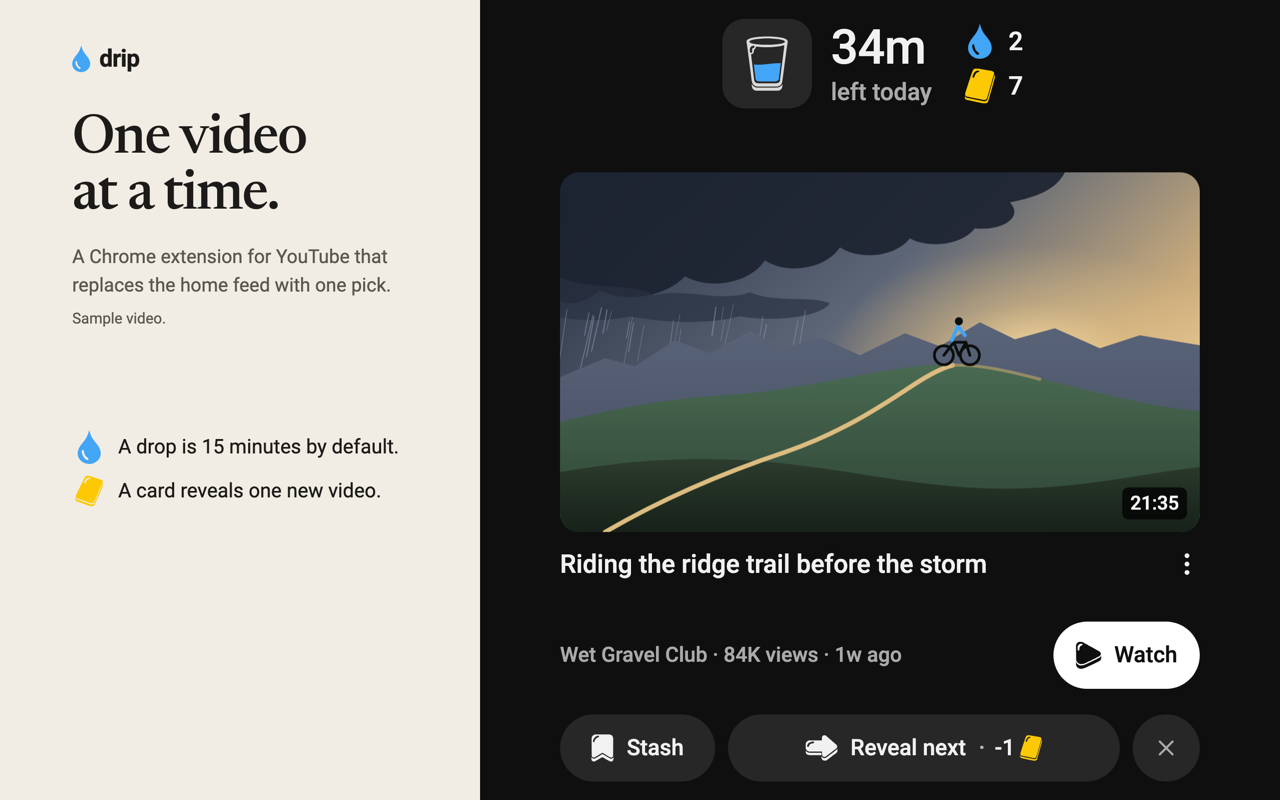
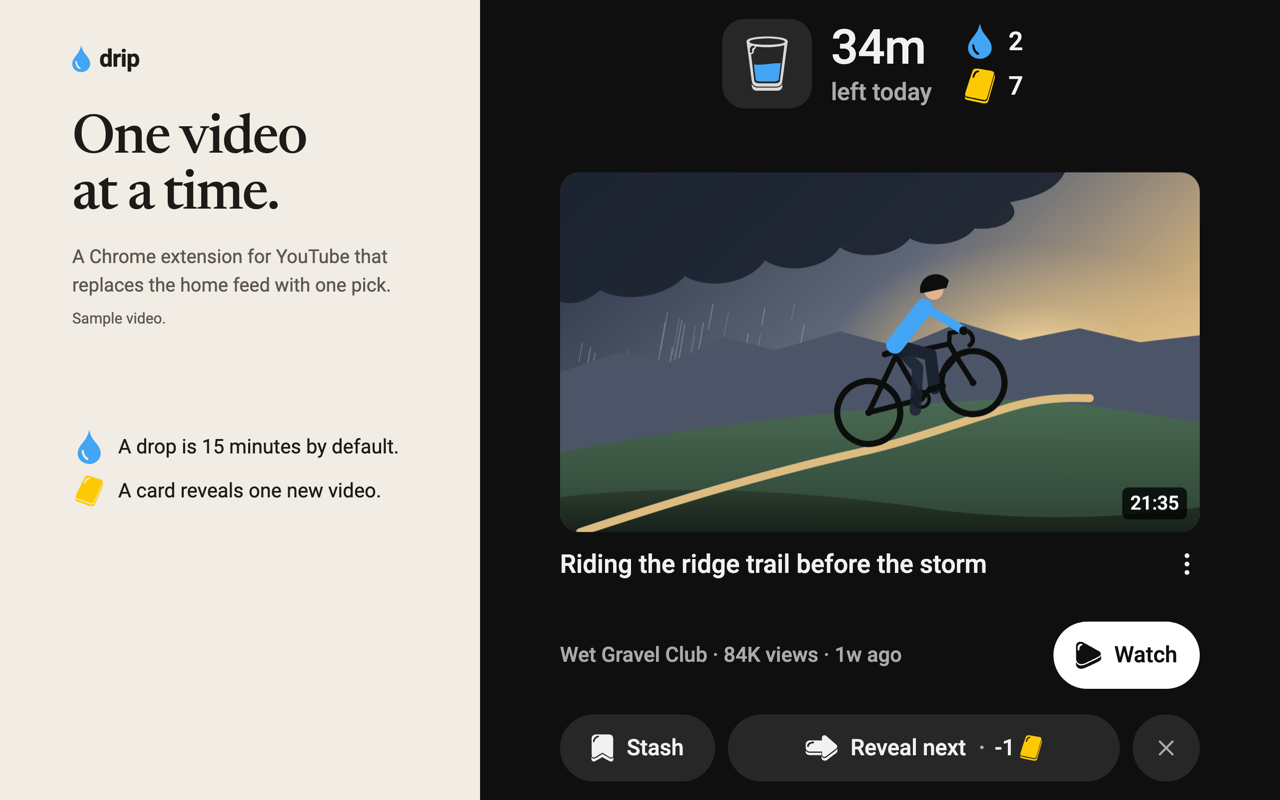
Store images: the sample video's rider about four times bigger (Jesse picked A from five thumbnail ideas)
Screenshot 2's player shows the whole picture now; its 130% crop was tuned for the old small rider.

Claude-Session: https://claude.ai/code/session_01BaVsJg78QBgFX9FYqzaUSR

Changed region(s): [[0.4375, 0.3438, 0.9375, 0.6875], [0.5312, 0.3438, 0.6562, 0.4062], [0.4375, 0.4062, 0.4688, 0.4375]]

diff --git a/store/art/frames-v4.html b/store/art/frames-v4.html
@@ -89,7 +89,8 @@
       #drip-pill, #drip-pill * { font-family: Roboto, Arial, sans-serif !important; }
       .co-layer, .co-ring, .co-chip, .co-said, .co-head, .co-count, .tour-player-play { display: none !important; }
       .tour-player { background: url(/store/art/thumbs/store-trail.svg) center / cover !important; border-radius: 0 !important; }
-      .tour-player { background-size: 130% auto !important; background-position: 55% 95% !important; }`,
+      /* The whole picture: the 130% crop was tuned for the old thumbnail's small rider (design-thumb, 2026-11-09). */
+      .tour-player { background-size: cover !important; background-position: center !important; }`,
     /** @param {Document} d */
     step: (d) => setTimeout(() => {
       const m = d.querySelector('#drip-pill .drip-pill-minutes');
